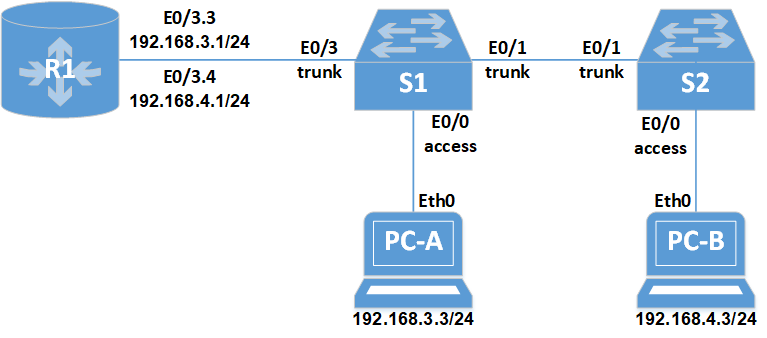
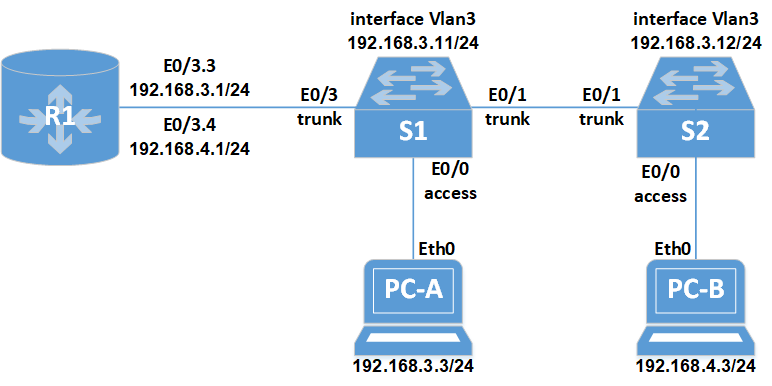
Commit 2

Changed region(s): [[0.0, 0.0, 0.9896, 0.9763]]

diff --git a/Labs/Hw01/README.md b/Labs/Hw01/README.md
@@ -1,19 +1,20 @@
-# **Лабораторная работа - Настройка маршрутизации между VLAN по методу "Router-on-a-Stick"**
+# Лабораторная работа 01
++ ## Настройка маршрутизации между VLAN по методу "Router-on-a-Stick"
 ## **Топология** 
 ![](https://github.com/sergl352130/OTUS_NE_Homeworks/blob/main/Labs/Hw01/VLAN_topology.png?raw=true)
 
-## **Цели:**
+## Цели:
 + ### Часть 1: Создание сети и настройка основных параметров устройств
-+ ### Часть 2: Создание VLAN и включение в них портов коммутатора
++ ### Часть 2: Создание VLAN и включение в них портов коммутаторов
 + ### Часть 3: Настройка транков 802.1Q между коммутаторами
 + ### Часть 4: Настройка связности между VLAN на маршрутизаторе
 + ### Часть 5: Проверка функционирования маршрутизации между VLAN
 
-## **Решение**
-## **Часть 1: Создание сети и настройка основных параметров устройств**
+## Решение
+## Часть 1: Создание сети и настройка основных параметров устройств
 
-### **Шаг 1: Коммутация сети по схеме**
-### **Шаг 2: Настройка основных параметров маршрутизатора**
+### Шаг 1: Коммутация сети по схеме
+### Шаг 2: Настройка основных параметров маршрутизатора
 
 ### R1:
 
@@ -46,9 +47,9 @@ line vty 0 4
 end
 ```
 
-### **Шаг 3: Настройка основных параметров для каждого коммутатора**
+### Шаг 3: Настройка основных параметров для каждого коммутатора
 
-### **S1**:
+### S1:
 
 ```
 S1#sh ru
@@ -78,7 +79,7 @@ line vty 0 4
 end
 ```
 
-### **S2**:
+### S2:
 
 ```
 S2#sh ru
@@ -109,72 +110,87 @@ end
 ```
 
 
-## **Часть 2: Create VLANs and Assign Switch Ports**
+## Часть 2: Создание VLAN и включение в них портов коммутаторов
+
+### Шаг 1: Создание VLAN на обоих коммутаторах
+### Шаг 2: Включение в VLANы портов коммутаторов
+
+### S1:
+
+```
+S1#sh ru
+Building configuration...
+!
+interface Ethernet0/0
+ switchport access vlan 3
+ switchport mode access
+!
+!
+interface Ethernet0/2
+ switchport access vlan 7
+ switchport mode access
+ shutdown
+!
+!
+end
+
+S1#sh vlan brief
+
+VLAN Name                             Status    Ports
+---- -------------------------------- --------- -------------------------------
+1    default                          active
+3    Management                       active    Et0/0
+4    Operations                       active
+7    ParkingLot                       active    Et0/2
+8    Native                           active
+1002 fddi-default                     act/unsup
+1003 token-ring-default               act/unsup
+1004 fddinet-default                  act/unsup
+1005 trnet-default                    act/unsup
+
+```
+
+### S2:
+
+```
+S2#sh ru
+Building configuration...
+!
+interface Ethernet0/0
+ switchport access vlan 4
+ switchport mode access
+!
+!
+interface Ethernet0/2
+ switchport access vlan 7
+ switchport mode access
+ shutdown
+!
+interface Ethernet0/3
+ switchport access vlan 7
+ switchport mode access
+ shutdown
+!
+end
+
+S2#sh vlan brief
+
+VLAN Name                             Status    Ports
+---- -------------------------------- --------- -------------------------------
+1    default                          active
+3    Management                       active
+4    Operations                       active    Et0/0
+7    ParkingLot                       active    Et0/2, Et0/3
+8    Native                           active
+1002 fddi-default                     act/unsup
+1003 token-ring-default               act/unsup
+1004 fddinet-default                  act/unsup
+1005 trnet-default                    act/unsup
+
+```
 
 
-### **Шаг 1: Create VLANs on both switches.**
-
-
-a.	Create and name the required VLANs on each switch from the table above.
-
-
-b.	Configure the management interface and default gateway on each switch using the IP address information in the Addressing Table. 
-
-
-c.	Assign all unused ports on both switches to the ParkingLot VLAN, configure them for static access mode, and administratively deactivate them.
-
-
-
-
-### **Шаг 2: Assign VLANs to the correct switch interfaces.**
-
-
-a.	Assign used ports to the appropriate VLAN (specified in the VLAN table above) and configure them for static access mode. Be sure to do this on both switches
-
-
-b.	Issue the show vlan brief command and verify that the VLANs are assigned to the correct interfaces.
-
-
-### **S1**:
-
-![](https://github.com/sergl352130/OTUS_NE_Homeworks/blob/main/Labs/Hw01/S1(VLAN).png?raw=true)
-
-
-### **S2**:
-
-![](https://github.com/sergl352130/OTUS_NE_Homeworks/blob/main/Labs/Hw01/S2(Vlan).png?raw=true)
-
-
-
-
-## **Часть 3: Configure an 802.1Q Trunk Between the Switches**
-
-
-### **Шаг 1: Manually configure trunk interface F0/1.**
-
-
-a.	Change the switchport mode on interface F0/1 to force trunking. Make sure to do this on both switches.
-
-
-b.	As a part of the trunk configuration, set the native VLAN to 8 on both switches. You may see error messages temporarily while the two interfaces are configured for different native VLANs.
-
-
-c.	As another part of trunk configuration, specify that VLANs 3, 4, and 8 are only allowed to cross the trunk.
-
-
-d.	Issue the show interfaces trunk command to verify trunking ports, the Native VLAN and allowed VLANs across the trunk.
-
-
-### **Шаг 2: Manually configure S1’s trunk interface F0/5**
-
-
-a.	Configure the F0/5 on S1 with the same trunk parameters as F0/1. This is the trunk to the router.
-
-
-b.	Save the running configuration to the startup configuration file on S1 and S2.
-
-
-c.	Issue the show interfaces trunk command to verify trunking.
+## Часть 3: Настройка транков 802.1Q между коммутаторами
 
 
 ### **S1**:
